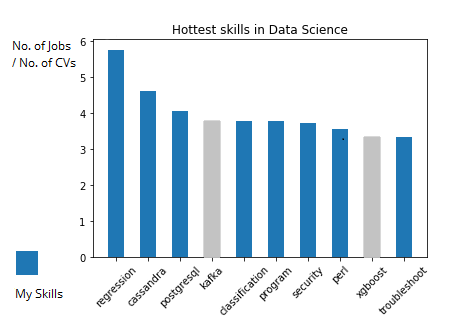
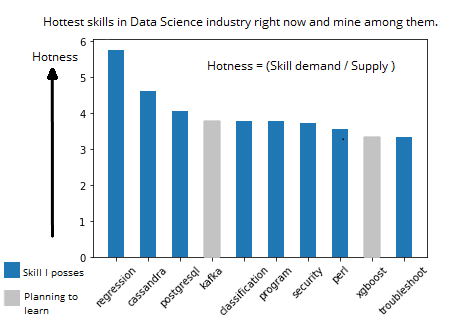
new reports and script modifications

diff --git a/script.py b/script.py
@@ -161,8 +161,8 @@ def final_cleaning():
     
     file=open( "./skills_data.csv", "r")
     reader = csv.reader(file)
-    # hottest # ignoreList = ['testing' ,'jenkins','training' , "dynamics", 'javascript' , "marketing", 'recruitment' , 'publishing' , 'quantitative' ];
-    ignoreList = ['analytics' , 'quantitative'];
+    ignoreList = ['collection',  'operation'  ,'jenkins','training' , "dynamics", 'javascript' , "marketing", 'recruitment' , 'publishing' , 'quantitative' ];
+    #ignoreList = ['analytics' , 'quantitative'];
     
     final_array = [];
     for line in reader:
@@ -175,16 +175,18 @@ def final_cleaning():
         if(len(myStrArray) == 4 and not(myStrArray[0] in ignoreList)):
                 myStrArray[1] = float(myStrArray[1])
                 myStrArray[2] = float(myStrArray[2])
-                myStrArray[3] = (float(myStrArray[2])); #hottest skills
+                myStrArray[3] = (float(myStrArray[3]) / 6) * 100; #hottest skills
                 final_array.append(myStrArray);
                 
     return final_array
     
 def draw_chart(xlabel, ylabel , title, data):
     from collections import Counter
+    from matplotlib.pyplot import figure
+
     
     Counter = Counter(keywords)
-    most_occur = data[:10];
+    most_occur = data[:20];
     
     from collections import Counter
     import numpy as np
@@ -202,6 +204,7 @@ def draw_chart(xlabel, ylabel , title, data):
     width = 1
     
     
+    figure(num=None, figsize=(12, 6), dpi=80, facecolor='w', edgecolor='k')
     plt.xlabel(xlabel, fontsize=5)
     plt.ylabel(ylabel, fontsize=5)
     #plt.xticks(index, labels, fontsize=5, rotation=30)
@@ -217,5 +220,5 @@ skillSupply = final_cleaning()
 skillSupply.sort(key=hotness ,reverse = True)
 #draw_chart('Skills' , '% of CVS with the skill / Total CVs' , 'Most available skills in Data Science' , skillSupply)
 #draw_chart('Skills' , 'No. of Jobs / No. of CVs' , 'Hottest skills in Data Science' , skillSupply)
-draw_chart('Skills' , 'No. of Jobs' , 'Most sought out skills in Data Science' , skillSupply)
+draw_chart('Skills' , 'Hotness' , 'Hottest skills in Data Science right now and where am I among them' , skillSupply)
 
